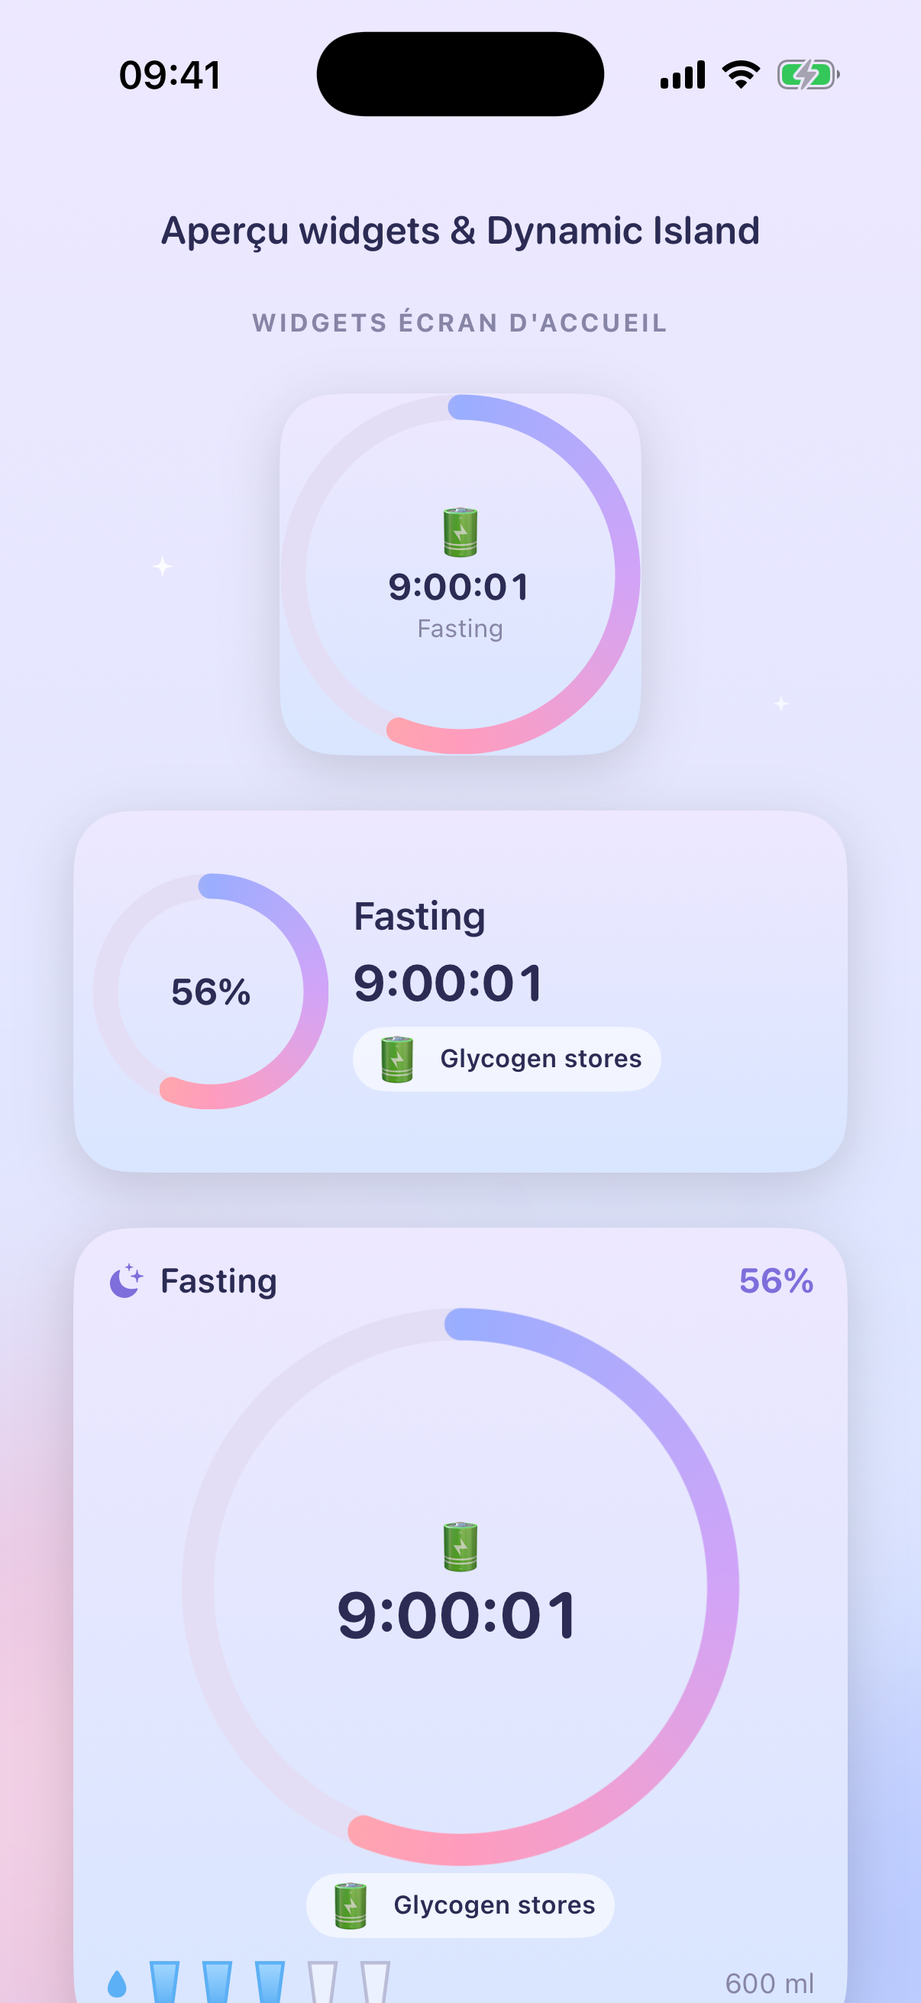
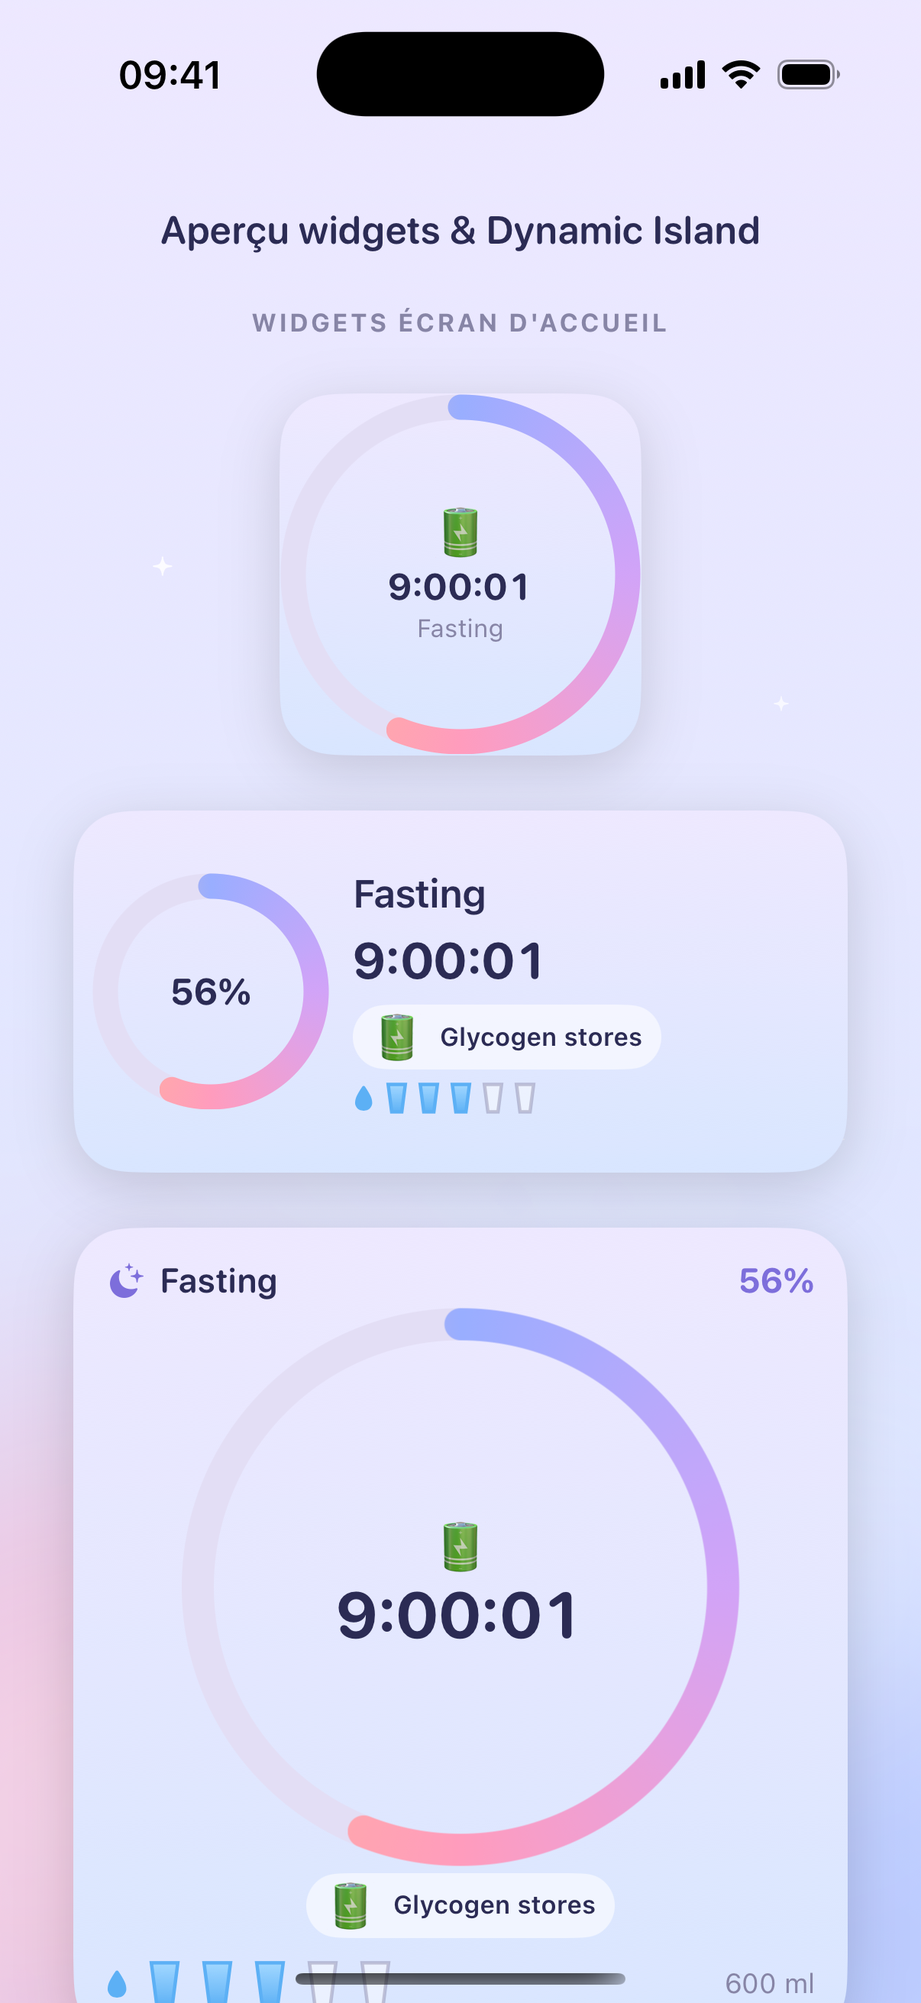
Icône correcte, eau dans le widget moyen, interrompre/démarrer le jeûne au tap
- Icône : remplace le PNG placeholder par la vraie icône Crazy Bee Labs
  (~/Desktop/crazybee-icons/Fasting made easy.png, redimensionnée en 1024x1024
  sans alpha). Vérifié sur l'écran d'accueil du simulateur.
- Widget moyen : ajoute une ligne eau (icône + verres + statut) sous le chrono,
  à côté du jeûne, comme dans le grand widget (WidgetContent.swift).
- Interrompre/démarrer le jeûne à tout moment (tap sur l'anneau) :
  - ManualSession + FastingSchedule.effectiveState(at:override:) (FastingModel.swift) :
    la session manuelle prime sur le planning tant que sa propre durée cible (jeûne ou
    repas) n'est pas écoulée, puis le planning normal reprend automatiquement.
  - Stockée dans l'App Group (SharedStore.manualOverride/setManualOverride) : l'app, les
    widgets ET la Dynamic Island (FastingWidget.swift) reflètent tous le même état réel.
  - Tap sur l'anneau : démarrage immédiat si en repas ; confirmation puis interruption
    si en jeûne (confirmationDialog + sensoryFeedback haptique). Indice textuel sous
    l'anneau ('Tap the ring to...').
  - LiveActivityManager.refreshIfActive() met à jour une Live Activity déjà active.
  - Limites documentées (README) : notifications et historique restent basés sur le
    planning configuré, pas sur la session manuelle.
  - Bug corrigé en vérifiant : le flag de dev -demoManualFast utilisait Date() réel au
    lieu de respecter -demoNow, faussant les calculs de test (pas un bug du vrai code).
- Captures + README/AGENTS à jour.

diff --git a/Fasting/FastingApp.swift b/Fasting/FastingApp.swift
@@ -17,6 +17,16 @@ struct FastingApp: App {
            let n = Int(CommandLine.arguments[i + 1]) {
             SharedStore.setWaterGlasses(n)
         }
+        if let i = CommandLine.arguments.firstIndex(of: "-demoManualFast"), i + 1 < CommandLine.arguments.count,
+           let isFasting = Bool(CommandLine.arguments[i + 1]) {
+            // Respect -demoNow so the override's anchor matches whatever "now" the demo renders.
+            var demoNow = Date()
+            if let j = CommandLine.arguments.firstIndex(of: "-demoNow"), j + 1 < CommandLine.arguments.count,
+               let t = TimeInterval(CommandLine.arguments[j + 1]) {
+                demoNow = Date(timeIntervalSince1970: t)
+            }
+            SharedStore.setManualOverride(ManualSession(isFasting: isFasting, start: demoNow))
+        }
         _ = SharedStore.load() // ensure a default schedule exists on first launch
         if !CommandLine.arguments.contains("-skipNotifPrompt") {
             NotificationManager.shared.requestAuthorizationAndSchedule()
@@ -54,6 +64,8 @@ struct ContentView: View {
     @State private var showHistory = false
     @State private var showAccount = false
     @State private var glasses = SharedStore.waterGlasses()
+    @State private var showEndFastConfirm = false
+    @State private var toggleTrigger = false
     @StateObject private var live = LiveActivityManager()
     @StateObject private var auth = AuthManager()
     @AppStorage(AppLanguage.storageKey) private var languageRaw = "en"
@@ -78,12 +90,13 @@ struct ContentView: View {
     private var mainView: some View {
         TimelineView(.periodic(from: Date(), by: 1)) { context in
             let now = overrideNow ?? context.date
-            let s = schedule.state(at: now)
+            let s = schedule.effectiveState(at: now, override: SharedStore.manualOverride())
 
             ScrollView(showsIndicators: false) {
                 VStack(spacing: 16) {
                     header
                     heroRing(s)
+                    tapHint(s)
                     stageSection(s)
                     statsRow(s)
                     waterTracker
@@ -183,6 +196,43 @@ struct ContentView: View {
         }
         .frame(width: 298, height: 298)
         .padding(.vertical, 4)
+        .contentShape(Circle())
+        .onTapGesture { toggleFasting(s) }
+        .sensoryFeedback(.impact(weight: .medium), trigger: toggleTrigger)
+        .confirmationDialog(L.t("end_fast_confirm_title", lang), isPresented: $showEndFastConfirm, titleVisibility: .visible) {
+            Button(L.t("end_fast_confirm_action", lang), role: .destructive) {
+                applyOverride(isFasting: false)
+            }
+            Button(L.t("set_close", lang), role: .cancel) {}
+        } message: {
+            Text(L.t("end_fast_confirm_body", lang))
+        }
+    }
+
+    private func tapHint(_ s: FastingState) -> some View {
+        HStack(spacing: 4) {
+            Image(systemName: "hand.tap.fill")
+            Text(s.isFasting ? L.t("tap_to_end", lang) : L.t("tap_to_start", lang))
+        }
+        .font(.caption2)
+        .foregroundStyle(Palette.sub.opacity(0.8))
+        .multilineTextAlignment(.center)
+    }
+
+    private func toggleFasting(_ s: FastingState) {
+        if s.isFasting {
+            showEndFastConfirm = true
+        } else {
+            applyOverride(isFasting: true)
+        }
+    }
+
+    private func applyOverride(isFasting: Bool) {
+        let now = overrideNow ?? Date()
+        let session = ManualSession(isFasting: isFasting, start: now)
+        SharedStore.setManualOverride(session)
+        toggleTrigger.toggle()
+        live.refreshIfActive(state: schedule.effectiveState(at: now, override: session))
     }
 
     // MARK: Stage
@@ -224,7 +274,8 @@ struct ContentView: View {
             if live.isActive {
                 live.stop()
             } else {
-                live.start(schedule: schedule, state: schedule.state(at: Date()))
+                let now = overrideNow ?? Date()
+                live.start(schedule: schedule, state: schedule.effectiveState(at: now, override: SharedStore.manualOverride()))
             }
         } label: {
             Label(live.isActive ? L.t("btn_stop", lang) : L.t("btn_track", lang),
@@ -304,7 +355,7 @@ struct WidgetGalleryView: View {
 
                 sectionTitle("Widgets écran d'accueil")
                 card(width: 158, height: 158) { FastingWidgetContent(family: .systemSmall, state: s) }
-                card(width: 338, height: 158) { FastingWidgetContent(family: .systemMedium, state: s) }
+                card(width: 338, height: 158) { FastingWidgetContent(family: .systemMedium, state: s, water: 3) }
                 card(width: 338, height: 354) { FastingWidgetContent(family: .systemLarge, state: s, water: 3) }
 
                 sectionTitle("Widget eau")

diff --git a/FastingWidget/FastingWidget.swift b/FastingWidget/FastingWidget.swift
@@ -5,22 +5,24 @@ import AppIntents
 struct FastingEntry: TimelineEntry {
     let date: Date
     let schedule: FastingSchedule
+    let override: ManualSession?
     let water: Int
     let waterGoal: Int
 }
 
 struct FastingProvider: TimelineProvider {
     func placeholder(in context: Context) -> FastingEntry {
-        FastingEntry(date: Date(), schedule: .default, water: 2, waterGoal: SharedStore.defaultWaterGoal)
+        FastingEntry(date: Date(), schedule: .default, override: nil, water: 2, waterGoal: SharedStore.defaultWaterGoal)
     }
 
     func getSnapshot(in context: Context, completion: @escaping (FastingEntry) -> Void) {
-        completion(FastingEntry(date: Date(), schedule: SharedStore.load(), water: SharedStore.waterGlasses(),
-                                waterGoal: SharedStore.waterGoal))
+        completion(FastingEntry(date: Date(), schedule: SharedStore.load(), override: SharedStore.manualOverride(),
+                                water: SharedStore.waterGlasses(), waterGoal: SharedStore.waterGoal))
     }
 
     func getTimeline(in context: Context, completion: @escaping (Timeline<FastingEntry>) -> Void) {
         let schedule = SharedStore.load()
+        let override = SharedStore.manualOverride()
         let water = SharedStore.waterGlasses()
         let waterGoal = SharedStore.waterGoal
         let now = Date()
@@ -29,7 +31,7 @@ struct FastingProvider: TimelineProvider {
         var entries: [FastingEntry] = []
         for minute in stride(from: 0, through: 240, by: 2) {
             entries.append(FastingEntry(date: now.addingTimeInterval(Double(minute) * 60), schedule: schedule,
-                                        water: water, waterGoal: waterGoal))
+                                        override: override, water: water, waterGoal: waterGoal))
         }
         completion(Timeline(entries: entries, policy: .after(now.addingTimeInterval(240 * 60))))
     }
@@ -40,7 +42,7 @@ struct FastingWidgetEntryView: View {
     let entry: FastingEntry
 
     var body: some View {
-        let s = entry.schedule.state(at: entry.date)
+        let s = entry.schedule.effectiveState(at: entry.date, override: entry.override)
         FastingWidgetContent(family: family, state: s, water: entry.water, waterGoal: entry.waterGoal)
             .containerBackground(for: .widget) {
                 LinearGradient(colors: Palette.bgColors(for: s.phase),

diff --git a/Shared/Localization.swift b/Shared/Localization.swift
@@ -58,6 +58,13 @@ enum L {
         "btn_track": [.en: "Track in Dynamic Island", .fr: "Suivre dans la Dynamic Island", .de: "In Dynamic Island verfolgen", .es: "Seguir en la Isla Dinámica"],
         "btn_stop":  [.en: "Stop live tracking", .fr: "Arrêter le suivi en direct", .de: "Live-Verfolgung stoppen", .es: "Detener el seguimiento"],
 
+        // Manual start/interrupt (tap the ring)
+        "tap_to_end":   [.en: "Tap the ring to end your fast now", .fr: "Touche l'anneau pour arrêter ton jeûne maintenant", .de: "Tippe auf den Ring, um dein Fasten jetzt zu beenden", .es: "Toca el anillo para terminar tu ayuno ahora"],
+        "tap_to_start": [.en: "Tap the ring to start fasting now", .fr: "Touche l'anneau pour démarrer ton jeûne maintenant", .de: "Tippe auf den Ring, um jetzt mit dem Fasten zu beginnen", .es: "Toca el anillo para empezar a ayunar ahora"],
+        "end_fast_confirm_title":  [.en: "End your fast now?", .fr: "Arrêter ton jeûne maintenant ?", .de: "Fasten jetzt beenden?", .es: "¿Terminar tu ayuno ahora?"],
+        "end_fast_confirm_body":   [.en: "Your eating window will start right now instead of following the schedule.", .fr: "Ta fenêtre alimentaire commencera maintenant, au lieu de suivre le planning.", .de: "Dein Essensfenster beginnt jetzt sofort, statt dem Zeitplan zu folgen.", .es: "Tu ventana de comida empezará ahora mismo, en lugar de seguir el horario."],
+        "end_fast_confirm_action": [.en: "End fast now", .fr: "Arrêter le jeûne", .de: "Fasten beenden", .es: "Terminar ayuno"],
+
         // Settings
         "set_title":      [.en: "Settings", .fr: "Réglages", .de: "Einstellungen", .es: "Ajustes"],
         "set_fast_start": [.en: "Fast start", .fr: "Début du jeûne", .de: "Fastenbeginn", .es: "Inicio del ayuno"],

diff --git a/Shared/FastingModel.swift b/Shared/FastingModel.swift
@@ -98,6 +98,31 @@ extension FastingSchedule {
         }
         return results
     }
+
+    /// Like `state(at:)`, but a manual override (tap-to-start/interrupt) takes priority while its
+    /// own target duration hasn't elapsed yet. Once it has, this falls back to the normal recurring
+    /// schedule — a one-off override doesn't permanently shift future days.
+    func effectiveState(at now: Date, override: ManualSession?, calendar: Calendar = .current) -> FastingState {
+        if let override {
+            let targetMinutes = override.isFasting ? fastingMinutes : (24 * 60 - fastingMinutes)
+            let end = override.start.addingTimeInterval(Double(targetMinutes) * 60)
+            if now < end {
+                let total = end.timeIntervalSince(override.start)
+                let p = total > 0 ? now.timeIntervalSince(override.start) / total : 0
+                return FastingState(phase: override.isFasting ? .fasting : .eating, progress: min(max(p, 0), 1),
+                                    windowStart: override.start, windowEnd: end, now: now)
+            }
+        }
+        return state(at: now, calendar: calendar)
+    }
+}
+
+/// A manual "start fasting now" / "end fasting now" action, overriding the recurring schedule
+/// for the current session only. Stored in the App Group so the app, widgets and Live Activity
+/// all agree on the real, actual state.
+struct ManualSession: Codable, Equatable {
+    var isFasting: Bool
+    var start: Date
 }
 
 /// Common fasting protocols, expressed as the fasting-window duration in hours.

diff --git a/Shared/SharedStore.swift b/Shared/SharedStore.swift
@@ -61,6 +61,23 @@ enum SharedStore {
         defaults.removeObject(forKey: waterGoalKey)
         defaults.removeObject(forKey: waterCountKey)
         defaults.removeObject(forKey: waterDateKey)
+        defaults.removeObject(forKey: overrideKey)
+        WidgetCenter.shared.reloadAllTimelines()
+    }
+
+    // MARK: Manual override ("start fasting now" / "end fasting now")
+
+    private static let overrideKey = "manual.override.v1"
+
+    static func manualOverride() -> ManualSession? {
+        guard let data = defaults.data(forKey: overrideKey) else { return nil }
+        return try? JSONDecoder().decode(ManualSession.self, from: data)
+    }
+
+    static func setManualOverride(_ session: ManualSession) {
+        if let data = try? JSONEncoder().encode(session) {
+            defaults.set(data, forKey: overrideKey)
+        }
         WidgetCenter.shared.reloadAllTimelines()
     }
 }

diff --git a/Fasting/LiveActivityManager.swift b/Fasting/LiveActivityManager.swift
@@ -43,4 +43,22 @@ final class LiveActivityManager: ObservableObject {
             isActive = false
         }
     }
+
+    /// Pushes a fresh snapshot to any already-running activity — used after a manual
+    /// start/interrupt so the Dynamic Island doesn't keep showing a stale phase.
+    func refreshIfActive(state: FastingState) {
+        guard isActive else { return }
+        let content = ActivityContent(
+            state: FastingActivityAttributes.ContentState(
+                windowStart: state.windowStart,
+                windowEnd: state.windowEnd,
+                isFasting: state.isFasting,
+                progress: state.progress),
+            staleDate: state.windowEnd)
+        Task {
+            for activity in Activity<FastingActivityAttributes>.activities {
+                await activity.update(content)
+            }
+        }
+    }
 }

diff --git a/Shared/WidgetContent.swift b/Shared/WidgetContent.swift
@@ -68,6 +68,12 @@ struct FastingWidgetContent: View {
                     .foregroundStyle(Palette.ink)
                 StageChip(emoji: FastingStage.current(forHours: state.elapsedHours).emoji,
                           name: FastingStage.current(forHours: state.elapsedHours).name(), compact: true)
+                HStack(spacing: 4) {
+                    Image(systemName: water >= waterGoal ? "checkmark.seal.fill" : "drop.fill")
+                        .font(.caption2)
+                        .foregroundStyle(water >= waterGoal ? Palette.eatAccent : Palette.water)
+                    WaterGlassesRow(count: water, total: waterGoal, size: 11, spacing: 3)
+                }
             }
             Spacer(minLength: 0)
         }

diff --git a/README.md b/README.md
@@ -15,17 +15,21 @@ App iOS native (SwiftUI + WidgetKit) pour suivre l'état de son jeûne intermitt
 |:---:|:---:|
 | ![Onboarding](screenshots/08-onboarding-welcome.png) | ![Gratuit grâce à Crazy Bee Labs](screenshots/10-onboarding-free.png) |
 
-| Historique |
-|:---:|
-| ![Historique](screenshots/11-history.png) |
+| Historique | Icône (écran d'accueil) |
+|:---:|:---:|
+| ![Historique](screenshots/11-history.png) | ![Icône](screenshots/14-icon-home.png) |
+
+| Interrompre le jeûne (tap) | Démarrer le jeûne (tap) |
+|:---:|:---:|
+| ![Interrompre](screenshots/15-manual-interrupt.png) | ![Démarrer](screenshots/16-manual-start.png) |
 
 ## Fonctionnalités
 - **Configuration** : heure de **début**/**fin** du jeûne, ou **préréglages rapides** (16:8, 18:6, 20:4, OMAD).
-- **Écran principal** : anneau de progression pastel, **temps écoulé** en direct, **état d'avancement** métabolique (Digestion → Glycémie → Glycogène → Combustion des graisses → Cétose → Autophagie), et la phase en cours (jeûne / fenêtre alimentaire).
+- **Écran principal** : anneau de progression pastel, **temps écoulé** en direct, **état d'avancement** métabolique (Digestion → Glycémie → Glycogène → Combustion des graisses → Cétose → Autophagie), et la phase en cours (jeûne / fenêtre alimentaire). **Un tap sur l'anneau** permet d'**interrompre le jeûne** (avec confirmation) ou de **démarrer un jeûne** à n'importe quelle heure, en dehors du planning — l'app, les widgets et la Dynamic Island s'ajustent immédiatement ; le planning normal reprend automatiquement une fois la session (manuelle) écoulée.
 - **Historique & séries** : série en cours / meilleure série, jeûnes complétés, durée moyenne, calendrier des 4 dernières semaines — calculés à partir du planning (pas de check-in requis).
 - **Tracker d'eau** : objectif quotidien réglable (3 à 8 verres), 5 verres cliquables qui se remplissent, état « objectif atteint », **rappels de boire** (notifications espacées dans la journée).
 - **Notifications locales** quotidiennes au **début** et à la **fin** du jeûne (+ rappels d'hydratation optionnels).
-- **Widgets écran d'accueil** (petit/moyen/grand pour le jeûne + petit widget eau **interactif**, tap direct sur un verre via App Intents iOS 17) + widget rond pour l'écran verrouillé, alimentés via un **App Group** partagé.
+- **Widgets écran d'accueil** (petit/moyen/grand pour le jeûne, le moyen et le grand affichent aussi l'eau + petit widget eau **interactif**, tap direct sur un verre via App Intents iOS 17) + widget rond pour l'écran verrouillé, alimentés via un **App Group** partagé.
 - **Live Activity / Dynamic Island** : suivi en direct du jeûne dans la Dynamic Island et sur l'écran verrouillé (chrono et progression qui avancent tout seuls, sans push). Bouton *Suivre / Arrêter le suivi en direct* dans l'app.
 - **Onboarding** au premier lancement : bienvenue + choix de la langue, choix du programme de jeûne, mise en avant de l'app **gratuite** (engagement Crazy Bee Labs), puis notifications.
 - **Compte** (optionnel) : Sign in with Apple, lien vers la gestion de l'identifiant Apple (mot de passe/sécurité gérés par Apple), **suppression de compte** qui efface réellement toutes les données locales (planning, eau, historique, préférences). App 100% locale : se connecter n'active aucune synchronisation, ça sert uniquement à avoir une identité pour la conformité App Store.
@@ -45,6 +49,8 @@ Fasting.xcodeproj/  projet Xcode (2 targets : Fasting + FastingWidget)
 - App Group : `group.company.lno.fasting`
 - Cible iOS minimum : 17.0
 - Jeûne par défaut : **22:00 → 18:00** (20h de jeûne), modifiable dans l'app ou via les préréglages.
+- Icône : `AppIcon.appiconset/AppIcon.png` (1024×1024, sans alpha), source canonique dans
+  `~/Desktop/crazybee-icons/Fasting made easy.png` — remplacer les deux si l'icône change.
 
 ## Ouvrir / lancer
 ```bash
@@ -107,6 +113,23 @@ espacés dans la journée (`NotificationManager.rescheduleWater`). Le petit widg
 **interactif** (iOS 17 App Intents, `FastingWidget/WaterIntents.swift`) : taper un verre directement
 sur l'écran d'accueil met à jour l'app instantanément (App Group).
 
+## Démarrer / interrompre le jeûne à tout moment
+Un **tap sur l'anneau** de l'écran principal bascule immédiatement l'état :
+- En jeûne → une **confirmation** (« End fast now ») puis bascule en fenêtre alimentaire à cet instant.
+- En repas → démarre un jeûne **immédiatement**, sans confirmation.
+
+Techniquement : `ManualSession` (`Shared/FastingModel.swift`) capture `{isFasting, start}` et prime
+sur le planning tant que sa **propre durée cible** (durée de jeûne ou de repas configurée) n'est pas
+écoulée — `FastingSchedule.effectiveState(at:override:)`. Stocké dans l'App Group
+(`SharedStore.manualOverride()`), donc **l'app, les widgets et la Dynamic Island** reflètent tous le
+même état réel. Une fois la session manuelle terminée, l'app revient automatiquement au planning
+normal (une interruption ponctuelle ne décale pas les jours suivants). La Live Activity déjà active
+est mise à jour en direct (`LiveActivityManager.refreshIfActive`).
+
+⚠ **Limites connues** : les notifications programmées (début/fin) restent calées sur le planning
+configuré, pas sur la session manuelle. L'historique (`HistoryStore`) reste lui aussi basé sur le
+planning — une interruption manuelle n'est pas (encore) reflétée comme un jeûne incomplet.
+
 ## Conformité App Store
 - **Compte & suppression** (`Fasting/AuthManager.swift`, `AccountView.swift`) : Sign in with Apple
   (capability `com.apple.developer.applesignin` dans `Fasting.entitlements`, nécessite une équipe
@@ -128,6 +151,7 @@ sur l'écran d'accueil met à jour l'app instantanément (App Group).
 - `-demoLang <en|fr|de|es>` : force la langue.
 - `-demoWater <n>` : fixe le nombre de verres du jour.
 - `-demoInstallDaysAgo <n>` : simule une date d'installation passée (pour peupler l'historique/série).
+- `-demoManualFast <true|false>` : force une session manuelle (démarrée/interrompue) dès le lancement.
 - `-openSettings` : ouvre les réglages au lancement. `-openHistory` : ouvre l'historique.
   `-openAccount` : ouvre l'écran Compte directement.
 - `-widgetGallery` : affiche l'aperçu in-app des widgets.

diff --git a/AGENTS.md b/AGENTS.md
@@ -43,6 +43,11 @@ de référence aux sessions Claude Code : à lire avant toute modification.
 - **App gratuite, pas de StoreKit/IAP** : aucun essai, aucun paywall — `RootView` va direct à
   `ContentView` après l'onboarding. `AppInstall.swift` (ex-`Trial`) ne sert plus qu'à ancrer
   l'historique/séries, plus à compter un essai.
+- **Session manuelle** (tap sur l'anneau pour démarrer/interrompre à tout moment) : `ManualSession`
+  + `FastingSchedule.effectiveState(at:override:)` dans `Shared/FastingModel.swift`, persistée via
+  `SharedStore.manualOverride()` (App Group → app, widgets et Dynamic Island cohérents). Toujours
+  utiliser `effectiveState(at:override:)`, jamais `state(at:)` seul, dans tout nouveau consommateur
+  d'état (widget, Live Activity, etc.) sous peine d'ignorer une session manuelle en cours.
 - Déploiement **iOS 17+**, Swift 5 mode.
 - ⚠ **Piège récurrent** : toute vue plein-écran doit appliquer `FastingBackground` via
   `.background(FastingBackground(phase:))` sur le contenu, **jamais** en calque frère dans un
